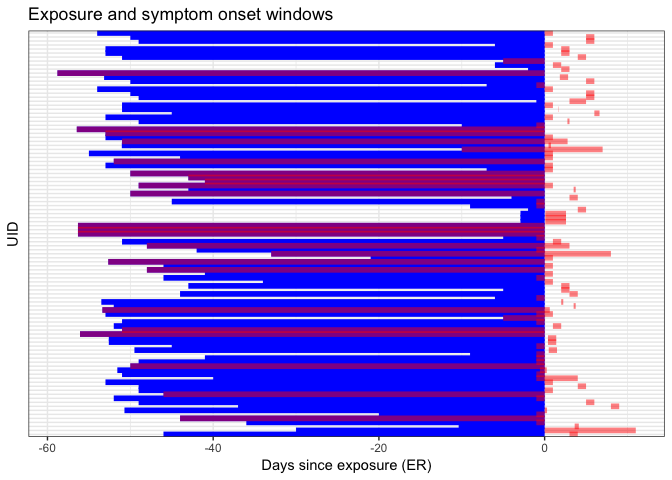
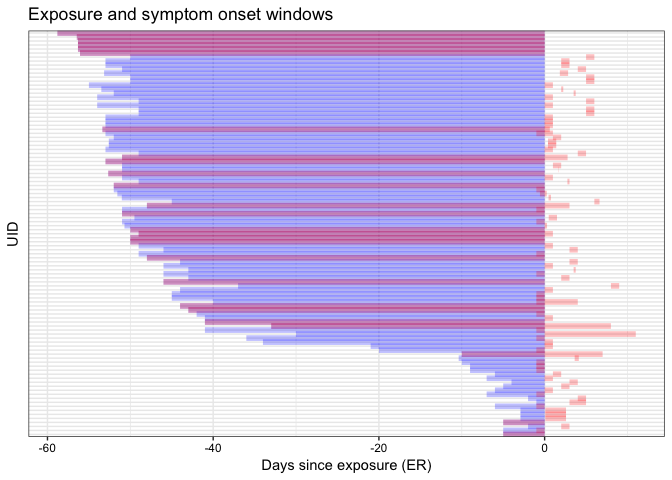
moved data summary back down; re-ran original results

diff --git a/README.md b/README.md
@@ -1,16 +1,7 @@
-<img src="README_files/figure-markdown_strict/data-summary-1.png" alt="This figure displays the exposure and symptom onset windows for each case in our dataset, relative to the right-bound of the exposure window (ER). The blue bars indicate the the exposure windows and the red bars indicate the symptom onset windows for each case. Purple areas are where those two bars overlap."  />
-<p class="caption">
-This figure displays the exposure and symptom onset windows for each
-case in our dataset, relative to the right-bound of the exposure window
-(ER). The blue bars indicate the the exposure windows and the red bars
-indicate the symptom onset windows for each case. Purple areas are where
-those two bars overlap.
-</p>
-
 Real-time estimation of the Wuhan coronavirus incubation time
 =============================================================
 
-Updated: Wed Jan 29 10:31:58 2020
+Updated: Wed Jan 29 12:31:57 2020
 
 Our lab has been collecting data (freely available at
 [`data/nCoV-IDD-traveler-data.csv`](https://github.com/HopkinsIDD/ncov_incubation/blob/master/data/nCoV-IDD-traveler-data.csv))
@@ -39,9 +30,18 @@ Data summary
 
 There are 101 cases that have been double-checked by our team. Of those
 34 are known to be female (34%) and 63 are male (62%). The median age is
-about 51.5 years (IQR: 36.25-57.5). 30 cases are from Mainland China
-(30%), while 71 are from the rest of the world (70%). 61 cases presented
-with a fever (60%).
+about 52 years (IQR: 36.5-59). 29 cases are from Mainland China (29%),
+while 72 are from the rest of the world (71%). 61 cases presented with a
+fever (60%).
+
+<img src="README_files/figure-markdown_strict/data-summary-1.png" alt="This figure displays the exposure and symptom onset windows for each case in our dataset, relative to the right-bound of the exposure window (ER). The blue bars indicate the the exposure windows and the red bars indicate the symptom onset windows for each case. Purple areas are where those two bars overlap."  />
+<p class="caption">
+This figure displays the exposure and symptom onset windows for each
+case in our dataset, relative to the right-bound of the exposure window
+(ER). The blue bars indicate the the exposure windows and the red bars
+indicate the symptom onset windows for each case. Purple areas are where
+those two bars overlap.
+</p>
 
 Exposure and symptom onset windows
 ----------------------------------
@@ -179,9 +179,9 @@ overall results. The confidence intervals are wider here at every
 quantile due to having less data.
 
 Using only cases from outside of Mainland China, the estimates are
--0.091 to 2.461 days longer than the estimates on the full data. There
-is a bit of a gap on the long end of the tail, but the confidence
-intervals overlap for the most part.
+-0.078 to 1.92 days longer than the estimates on the full data. There is
+a bit of a gap on the long end of the tail, but the confidence intervals
+overlap for the most part.
 
 When we set the unknown ELs to 2018 December 1 instead of 2019 December
 1, the estimates are -0.002 to 0.366 days longer than the estimates on
